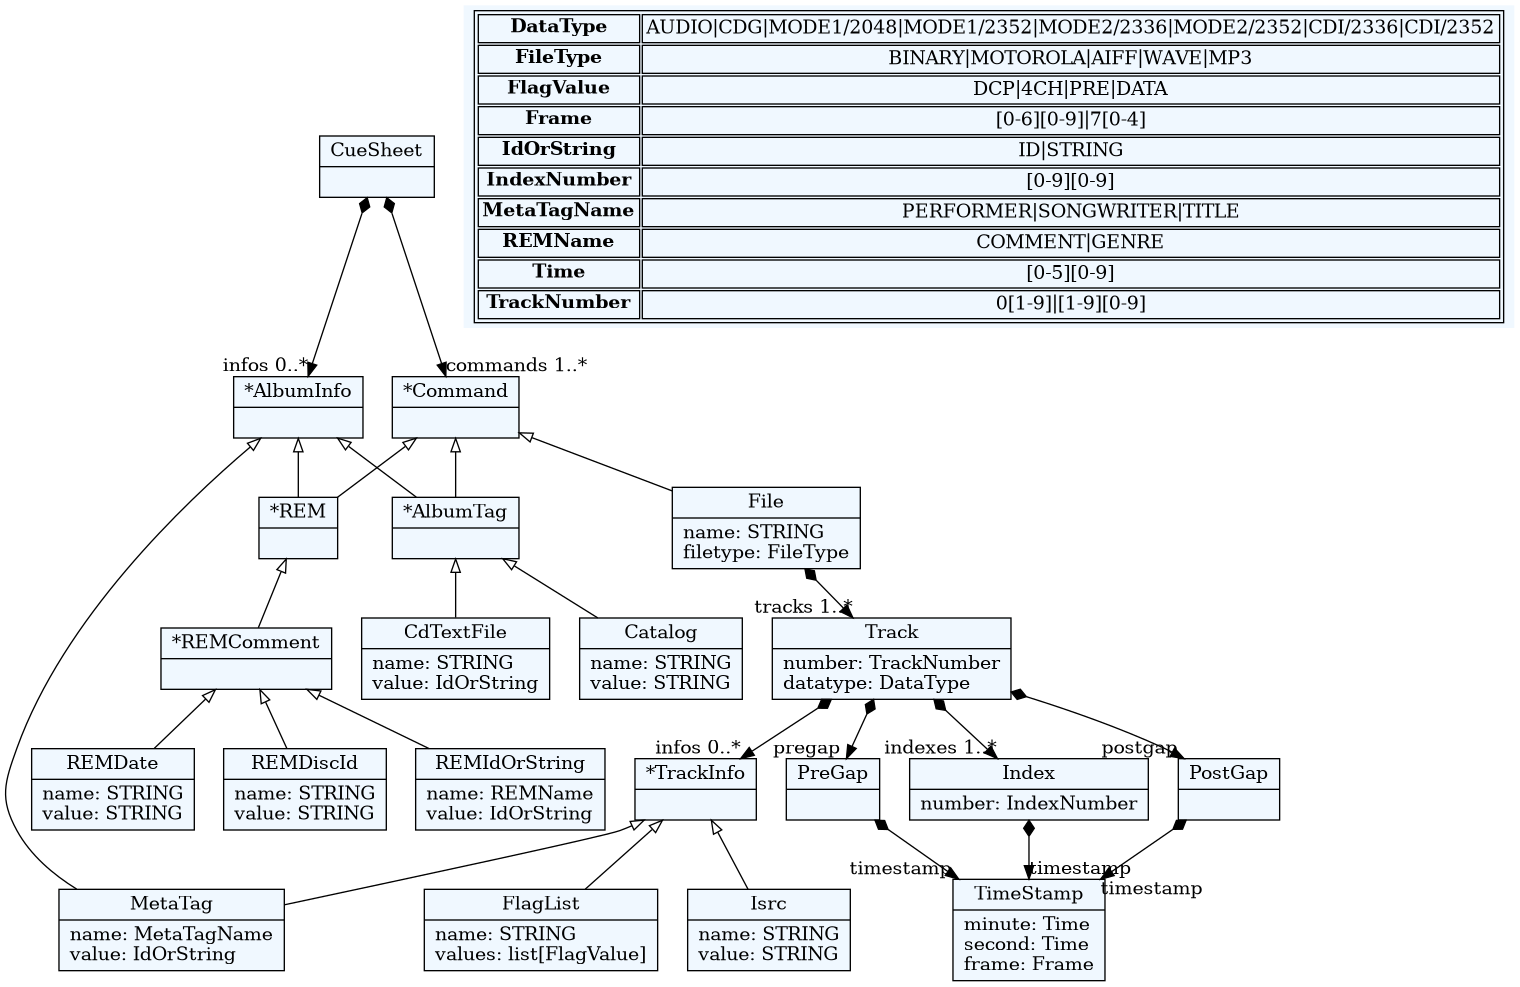
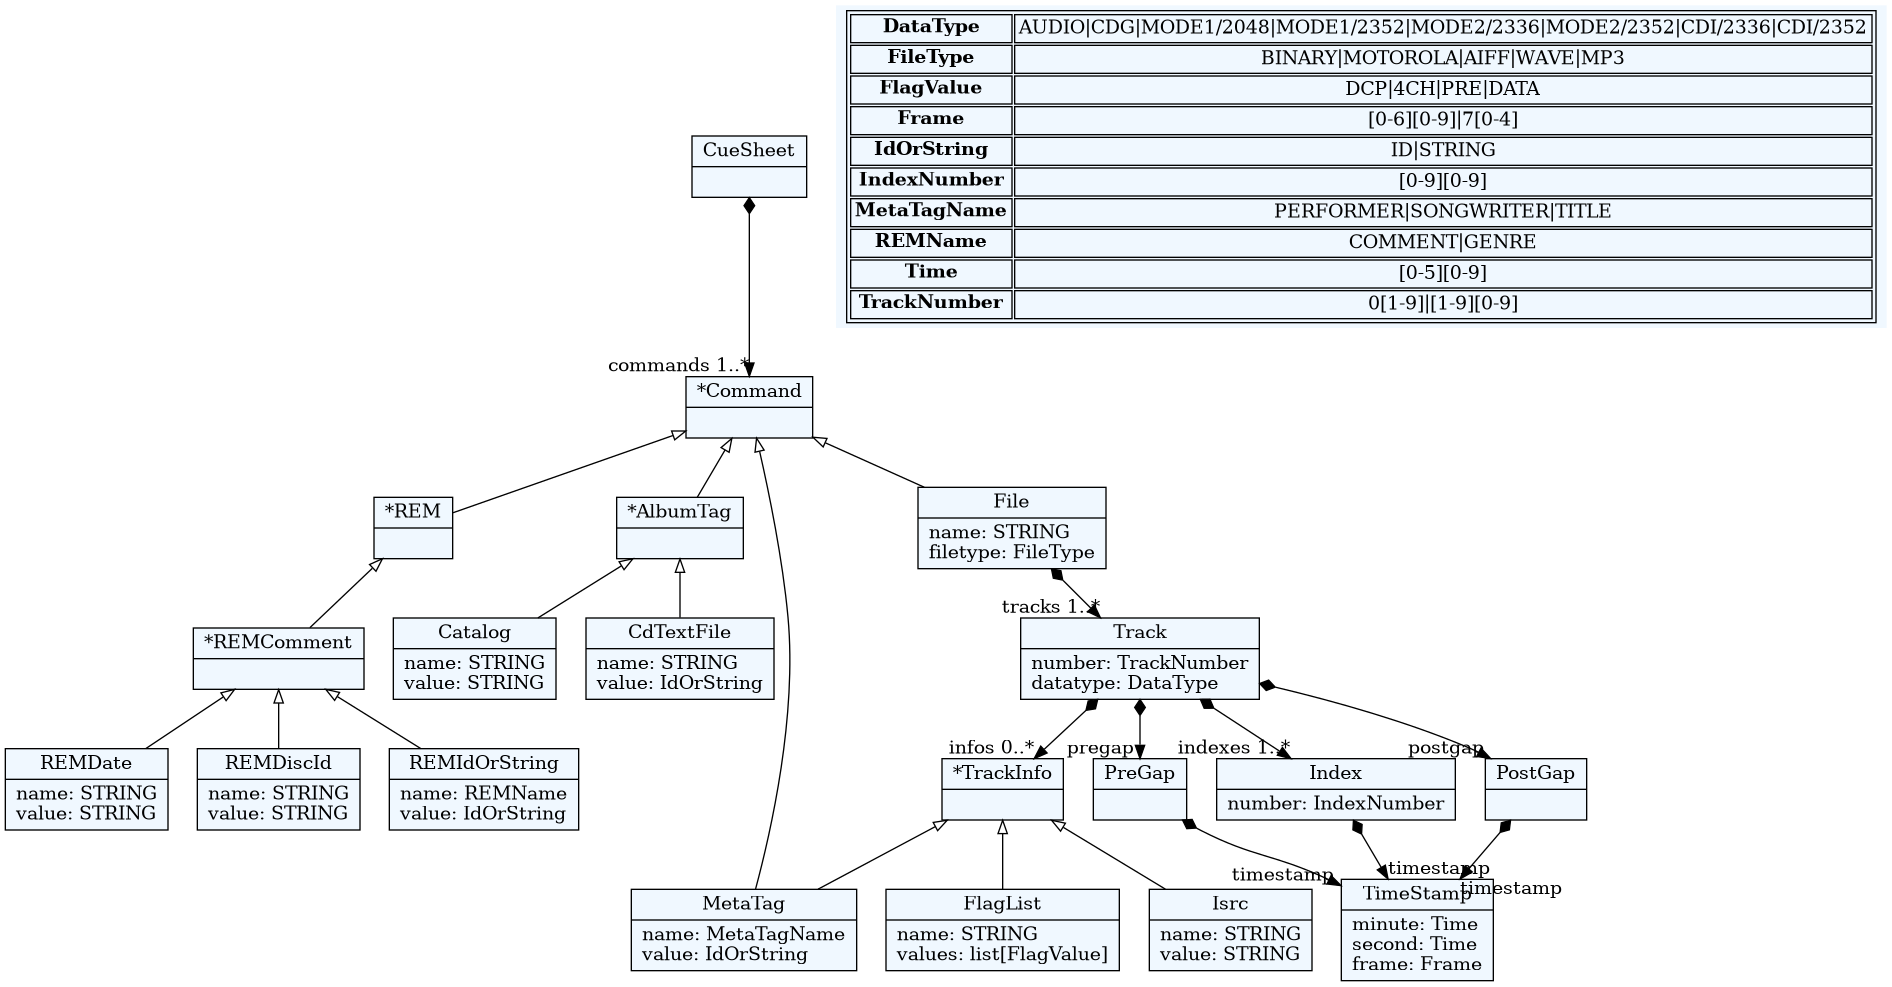
Merge back commands and albuminfos

diff --git a/coupe/model_processors.py b/coupe/model_processors.py
@@ -5,11 +5,7 @@ def _check_unicity(command_name):
     command_name = command_name.upper()
 
     def processor_function(model, metamodel):
-        entries = filter(
-                        lambda x: x.name == command_name,
-                        [*model.infos, *model.commands]
-                    )
-        if len(list(entries)) > 1:
+        if [x.name for x in model.commands].count(command_name) > 1:
             error_text = f"{command_name} command can appear only once."
             raise TextXSemanticError(error_text)
     return processor_function

diff --git a/coupe/__init__.py b/coupe/__init__.py
@@ -14,7 +14,7 @@ class Model:
         self._split_album_infos_from_files()
 
     def _split_album_infos_from_files(self) -> None:
-        for command in [*self.model.infos, *self.model.commands]:
+        for command in self.model.commands:
             if command.__class__.__name__ == 'File':
                 self.files[command.name] = command
             else:

diff --git a/coupe/grammar.py b/coupe/grammar.py
@@ -1,12 +1,11 @@
 # flake8: noqa
 GRAMMAR = """
 CueSheet:
-    infos*=AlbumInfo
     commands+=Command
 ;
 
-AlbumInfo:
-    REM | AlbumTag | MetaTag
+Command:
+    REM | AlbumTag | MetaTag | File
 ;
 
 REM:
@@ -55,10 +54,6 @@ MetaTag:
 
 MetaTagName:
     'PERFORMER' | 'SONGWRITER' | 'TITLE'
-;
-
-Command:
-    REM | AlbumTag | File
 ;
 
 File:
